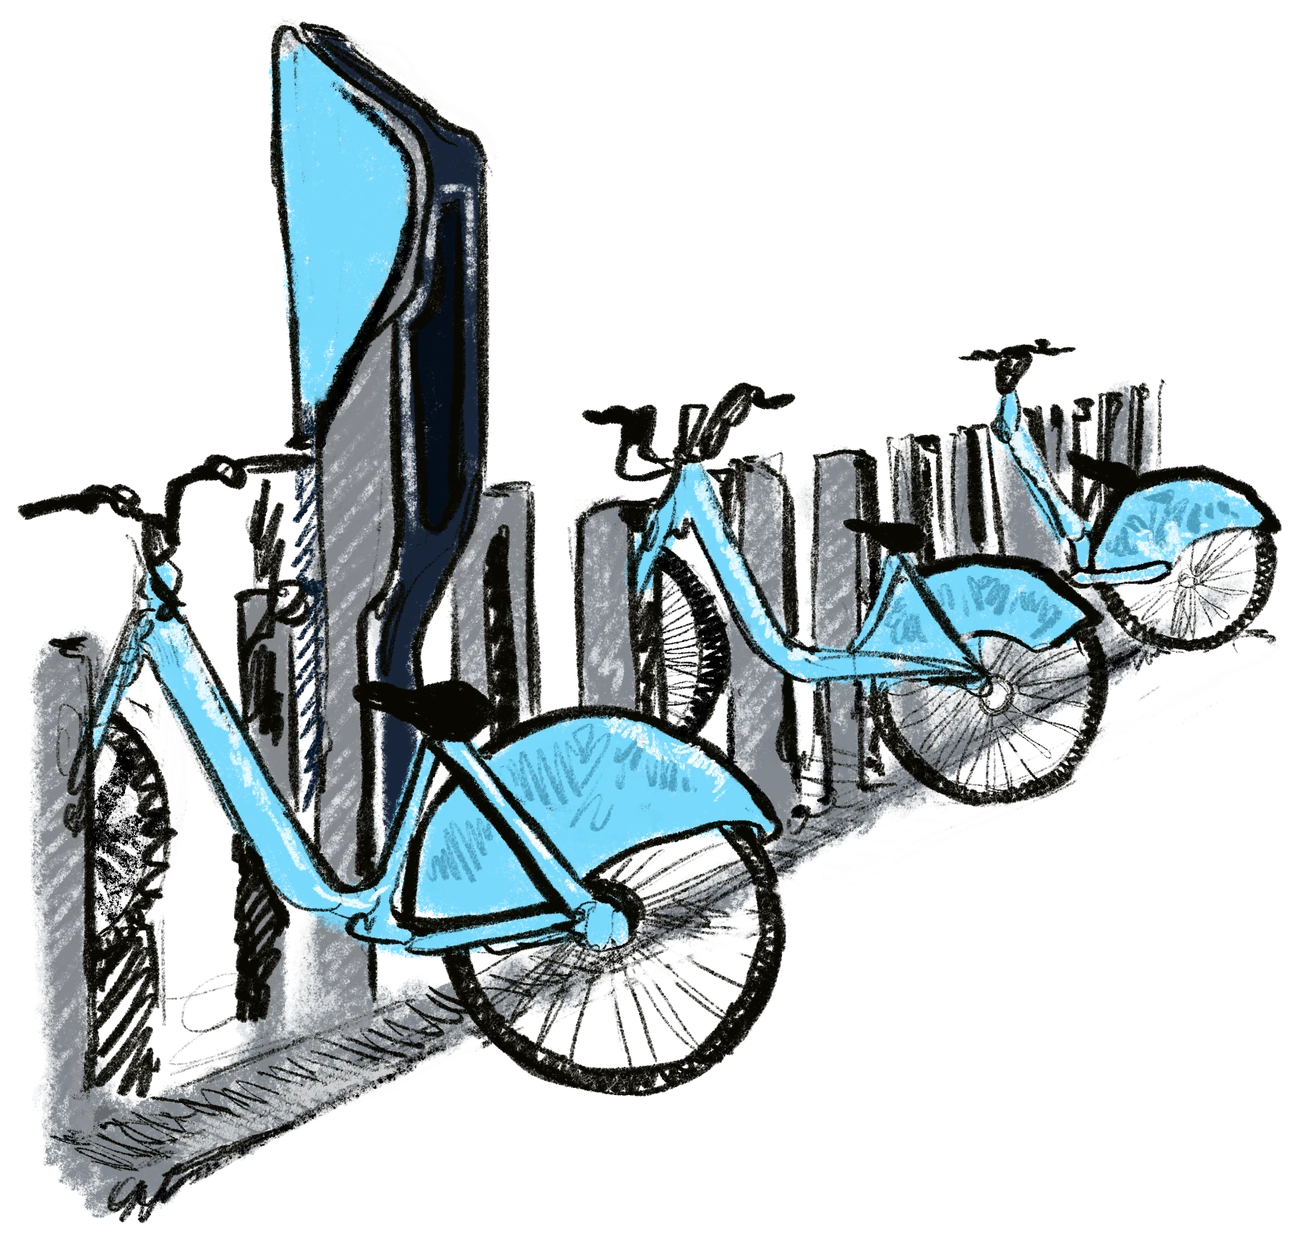
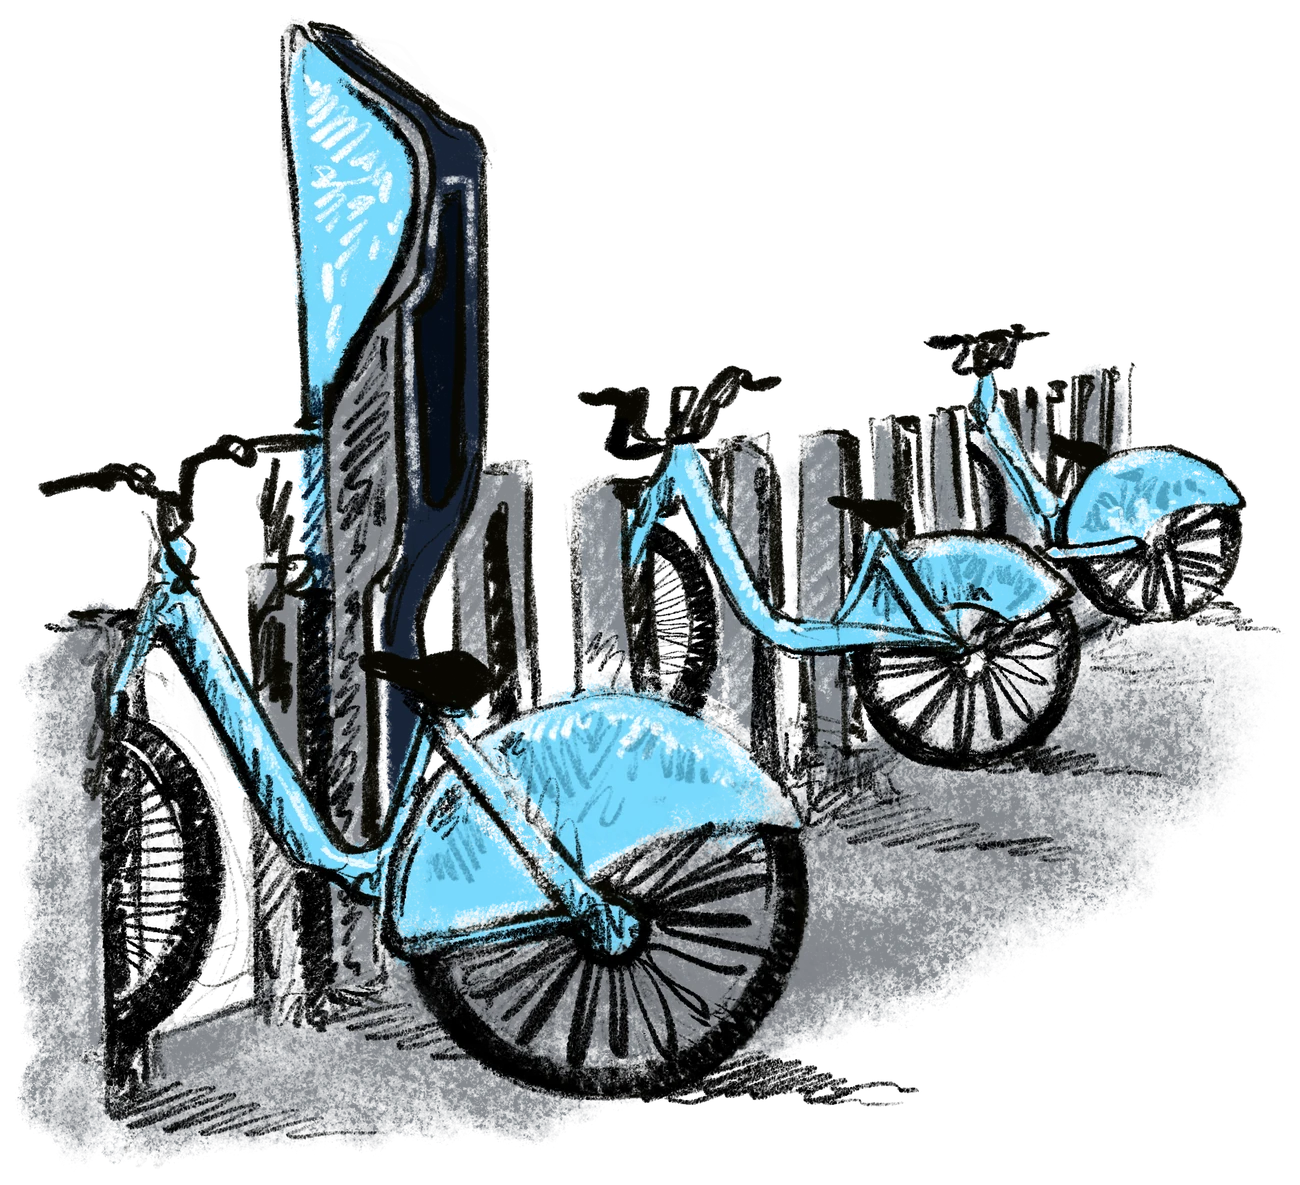
Use updated dock illustration

diff --git a/site/src/lib/components/Ending.svelte b/site/src/lib/components/Ending.svelte
@@ -104,7 +104,7 @@
   /* Larger than the text column, but never taller than the screen. */
   .dock {
     width: min(94vw, 56rem, 92vh);
-    aspect-ratio: 1300 / 1241;
+    aspect-ratio: 1300 / 1185;
     margin: 3rem 0 3.5rem 50%;
     transform: translateX(-50%);
     /* An evening glow, so the closing scene echoes the sunrise that opened the page. */

diff --git a/site/src/lib/illustrations.js b/site/src/lib/illustrations.js
@@ -27,7 +27,7 @@ export const illustrations = {
 
   dock: {
     file: 'dock.webp',
-    ratio: '1300 / 1241',
+    ratio: '1300 / 1185',
     alt: 'Three light-blue Divvy bikes parked at a Divvy dock.',
     brief: 'Your Divvy dock with bikes. Transparent background.',
   },

diff --git a/pipeline/optimize_drawings.py b/pipeline/optimize_drawings.py
@@ -61,7 +61,7 @@ def main():
     save(biker.crop(box), "foreground.webp", 1100)
 
     # The dock: trim empty margin like the rider; accept either file name.
-    for name in ("bikeDock.png", "divvyDock.png", "dock.png"):
+    for name in ("bikeDivvyDockUpdated.png", "bikeDock.png", "divvyDock.png", "dock.png"):
         if (SRC / name).exists():
             dock = Image.open(SRC / name).convert("RGBA")
             x0, y0, x1, y1 = opaque_box(dock)
